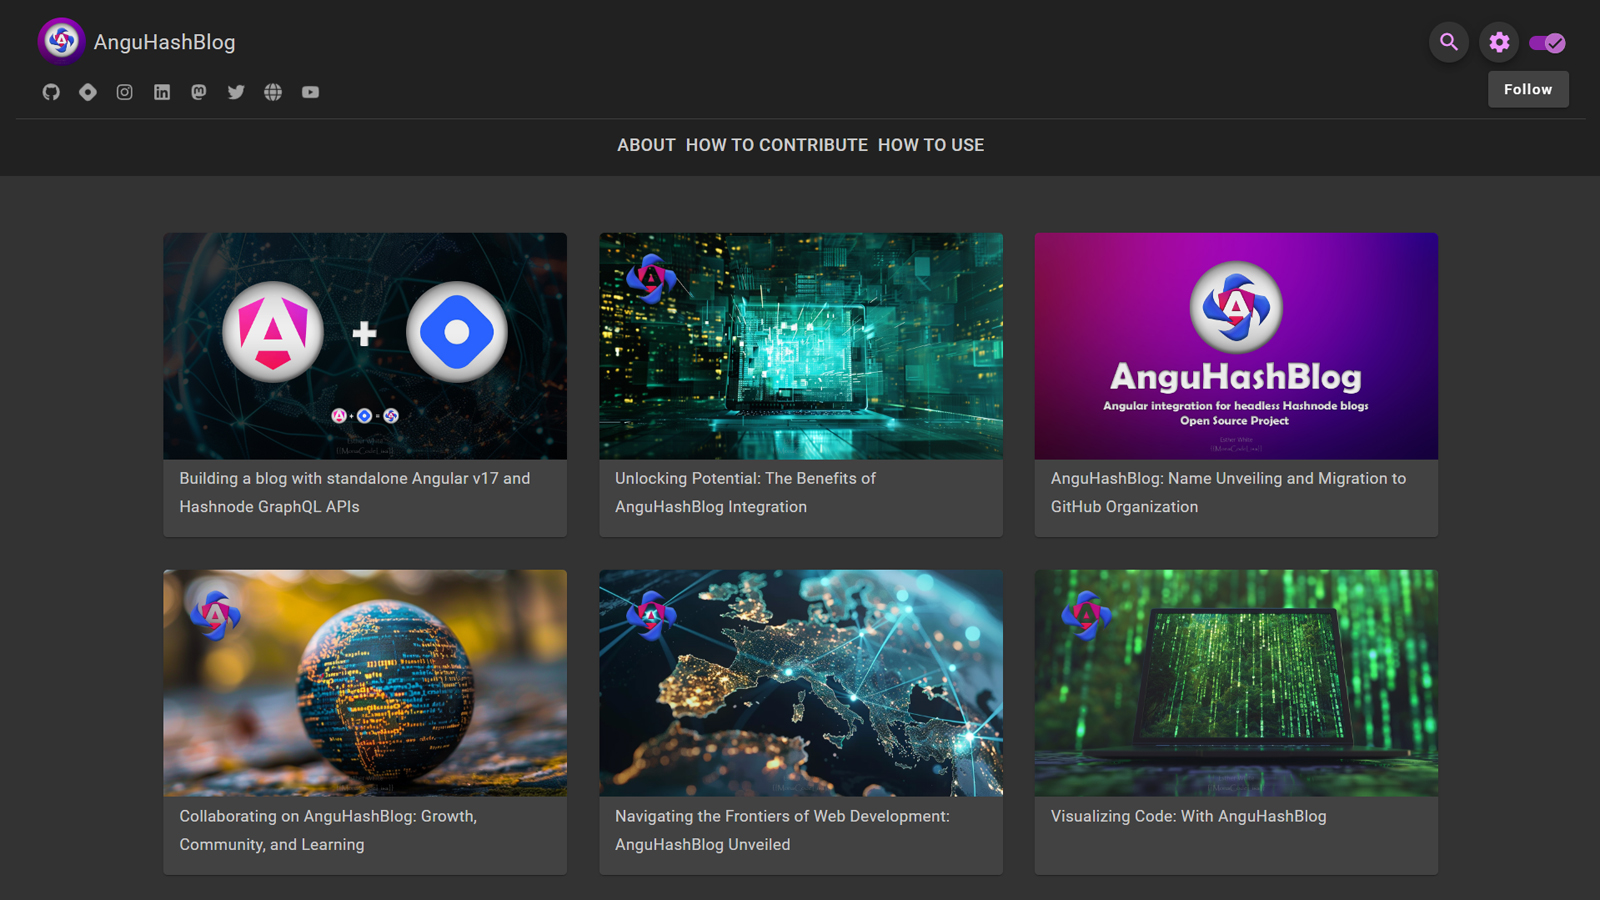
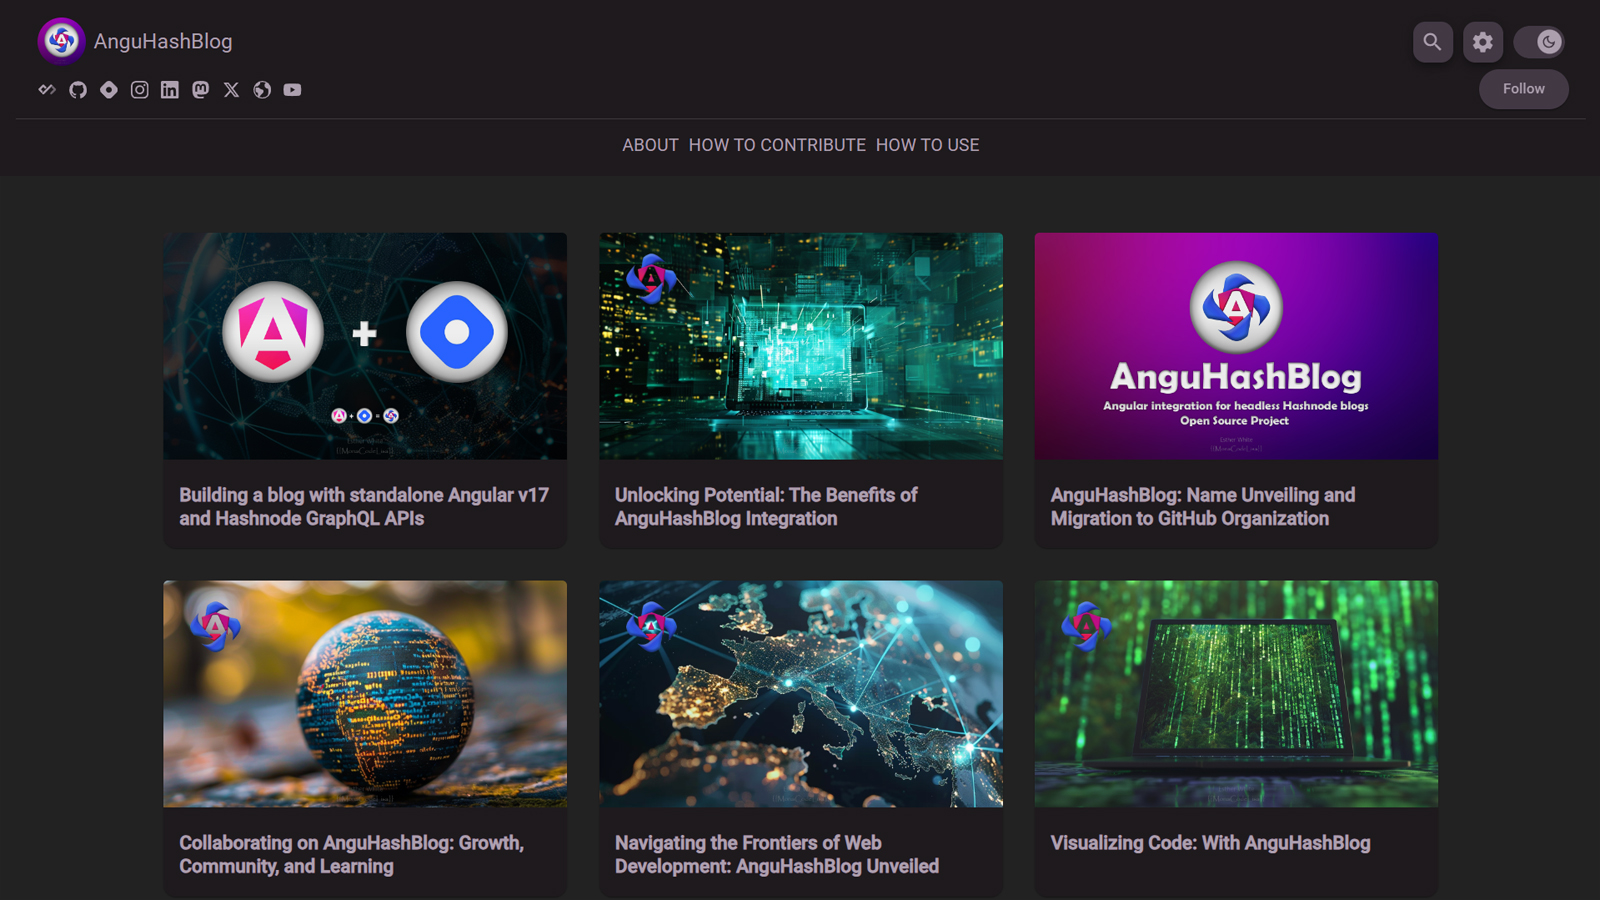
fix(post-details): post.author.username and og:image

diff --git a/angular-material-app/src/theme.scss b/angular-material-app/src/theme.scss
@@ -115,16 +115,10 @@ $light-button-color: #005cbb;
     }
   }
 
-  app-search-dialog {
-    mat-dialog-content {
-
-      .search-result {
-
-        &:hover {
-          background-color: #444 !important;
-          color: #a97aa7;
-        }
-      }
+  .search-result {
+    &:hover {
+      background-color: #444 !important;
+      color: #a97aa7;
     }
   }
 
@@ -154,29 +148,30 @@ $light-button-color: #005cbb;
     }
   }
 
-    // slide toggle overwrites
-    mat-slide-toggle {
-      button {
-        .mdc-switch__track {
-          &::after {
-            background-color: $light-button-bg !important;
-          }
-          &::before {
-            border-color: #2200bb14 !important;
-          }
+  // slide toggle overwrites
+  mat-slide-toggle {
+    button {
+      .mdc-switch__track {
+        &::after {
+          background-color: $light-button-bg !important;
         }
 
-        .mdc-switch__handle {
-          &::after {
-            background-color: $light-button-color !important;
-          }
+        &::before {
+          border-color: #2200bb14 !important;
+        }
+      }
 
-          .mdc-switch__icon {
-            fill: $light-button-bg !important;
-          }
+      .mdc-switch__handle {
+        &::after {
+          background-color: $light-button-color !important;
+        }
+
+        .mdc-switch__icon {
+          fill: $light-button-bg !important;
         }
       }
     }
+  }
 
   mat-sidenav {
     background-color: #f8f8fa;

diff --git a/angular-material-app/src/app/components/post-details/post-details.component.html b/angular-material-app/src/app/components/post-details/post-details.component.html
@@ -43,9 +43,9 @@
         <img class="cover-image" [src]="post.coverImage.url" alt="Cover image for {{ post.title }}">
         <div class="post-details">
           <div class="author-info">
-            <img class="author-image" [src]="post.author.profilePicture" alt="{{post.author.name}}">
+            <img class="author-image" [src]="post.author.profilePicture" alt="{{post.author.username}}">
             <div class="author-text">
-              <span class="author-name">{{post.author.name}}</span>
+              <span class="author-name">{{post.author.username}}</span>
               <div class="post-meta">
                 <span class="published-date">
                   <mat-icon>today</mat-icon>

diff --git a/angular-material-app/src/app/partials/search-dialog/search-dialog.component.scss b/angular-material-app/src/app/partials/search-dialog/search-dialog.component.scss
@@ -30,6 +30,8 @@ mat-dialog-content {
     border-radius: 0.3rem;
 
     &:hover {
+      // applied here since in theme.scss in light mode it had no effect
+      background-color: #989898;
       cursor: pointer;
     }
 

diff --git a/angular-material-app/src/app/graphql.operations.ts b/angular-material-app/src/app/graphql.operations.ts
@@ -30,6 +30,7 @@ export const GET_AUTHOR_INFO = gql`
 			id
 			author {
 				id
+				name
 				username
 				profilePicture
 				socialMediaLinks {
